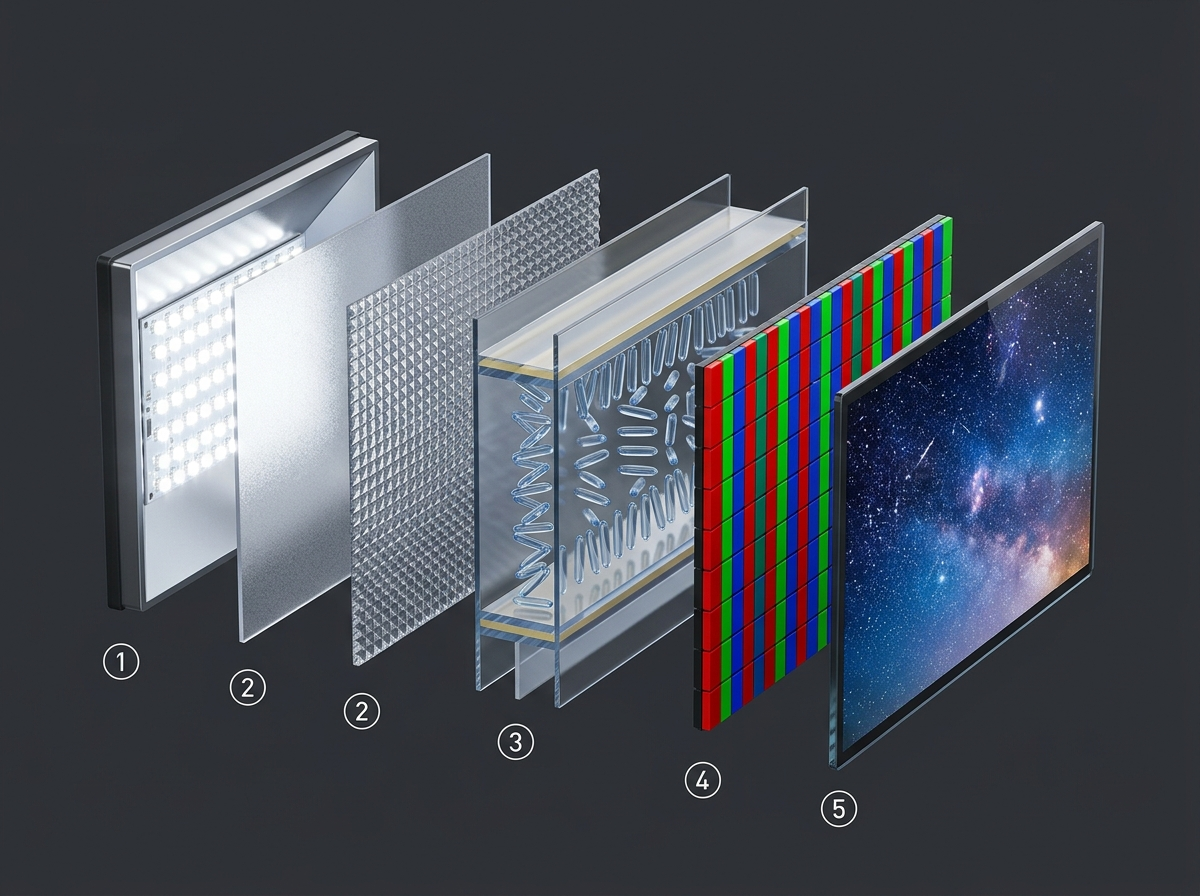
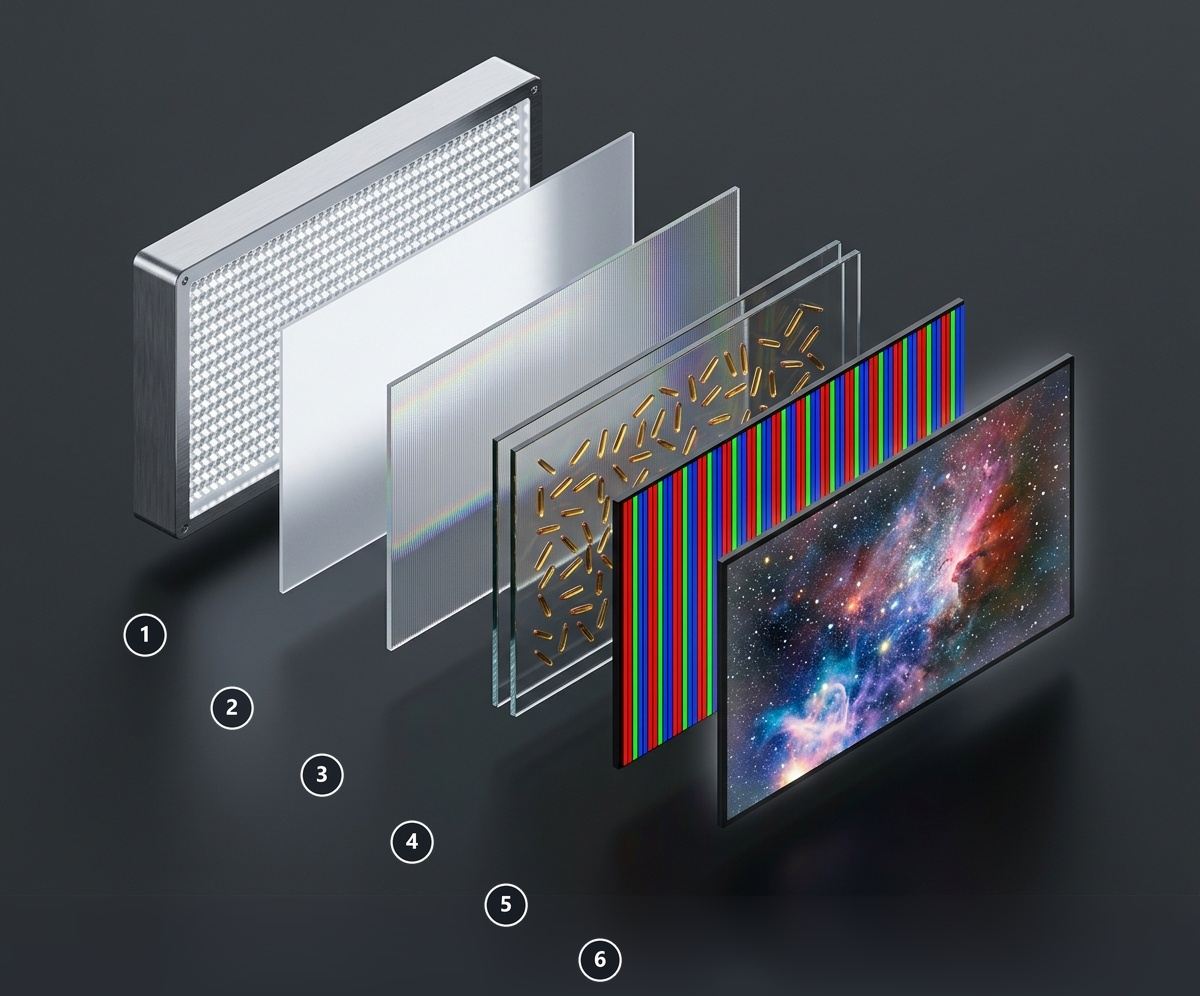
fix(display-guide): regenerate LCD and OLED 3D cutaways from scratch with clean layer numbering and remove redundant text legends

diff --git a/index.html b/index.html
@@ -598,13 +598,13 @@
                 <!-- 좌측: 기존 액정 디스플레이 (LCD) -->
                 <div class="mag-compare-col lcd">
                   <div class="mag-figure-frame">
-                    <img src="image/tools/lcd_3d_cutaway_clean.jpg" alt="LCD 내부 백라이트와 5겹 평행 광학 부품 단면 해부도">
+                    <img src="image/tools/lcd_3d_cutaway_clean.jpg" alt="LCD 내부 백라이트와 6겹 부품 단면 구조 해부도">
                   </div>
                   <div class="mag-column-story lcd">
                     <div class="mag-story-title-group">
                       <span class="mag-story-tag lcd">기존 방식</span>
                       <h4>액정 디스플레이 (LCD)</h4>
-                      <div class="mag-story-sub">거대한 백라이트 손전등과 5겹 부품의 태생적 한계</div>
+                      <div class="mag-story-sub">거대한 백라이트 손전등과 6겹 부품의 태생적 한계</div>
                     </div>
                     <p>
                       LCD는 화면 뒤편에서 24시간 내내 켜져 있는 <strong>거대한 흰색 손전등(백라이트)</strong>을 두고, 그 앞에 액정 블라인드와 컬러필터를 겹쳐 빛을 가려가며 색을 표현합니다. 
@@ -617,13 +617,13 @@
                 <!-- 우측: 차세대 유기 발광 소자 (OLED) -->
                 <div class="mag-compare-col oled">
                   <div class="mag-figure-frame">
-                    <img src="image/tools/oled_3d_cutaway_clean.jpg" alt="OLED 자체 발광 미세 화소와 종이처럼 얇은 유연 기판 단면 해부도">
+                    <img src="image/tools/oled_3d_cutaway_clean.jpg" alt="OLED 자체 발광 유기 화소와 3단 초슬림 단면 구조 해부도">
                   </div>
                   <div class="mag-column-story oled">
                     <div class="mag-story-title-group">
                       <span class="mag-story-tag oled">차세대 방식</span>
                       <h4>유기 발광 소자 (OLED)</h4>
-                      <div class="mag-story-sub">손전등 통째 삭제! 스스로 켜지는 0.1mm 필름 혁신</div>
+                      <div class="mag-story-sub">손전등 통째 삭제! 스스로 켜지는 3단 초슬림 혁신</div>
                     </div>
                     <p>
                       반면 OLED는 뒤를 비추던 거대한 손전등을 통째로 없앴습니다. 유기 화합물로 만들어진 미세 화소 하나하나가 전기를 받으면 <strong>스스로 빛을 내기(자발광)</strong> 때문입니다. 

diff --git a/assets/css/platform-rebuild.css b/assets/css/platform-rebuild.css
@@ -2224,5 +2224,3 @@ body.presentation-fullscreen-mode .pres-card p,
   color: #0f172a !important;
   font-weight: 600 !important;
 }
-
-
